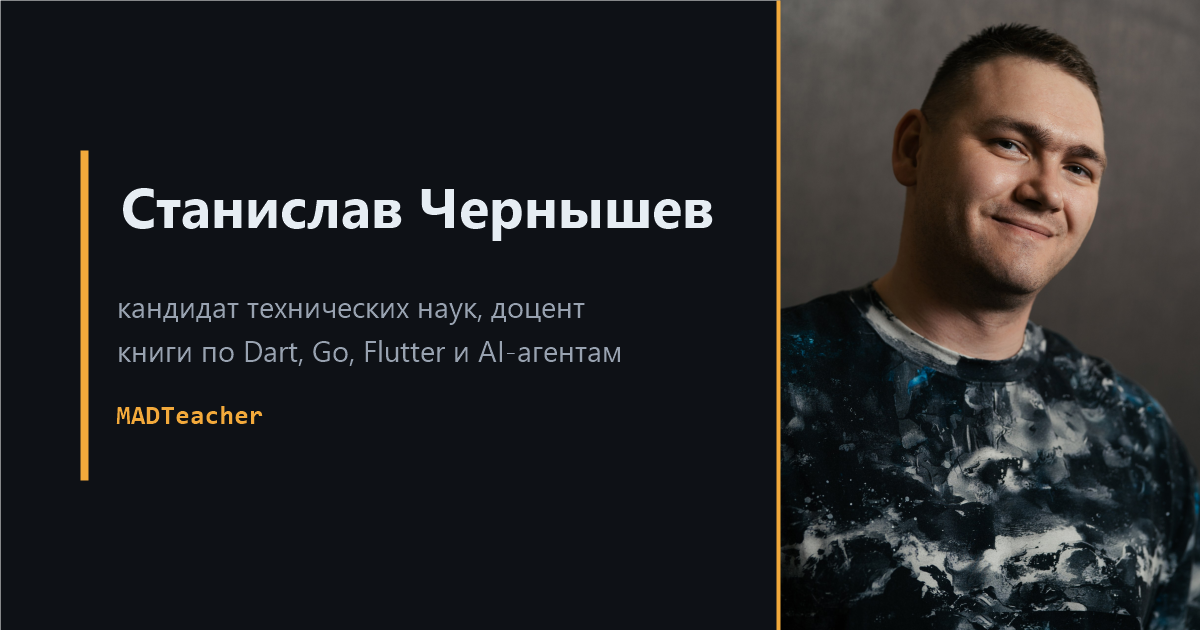
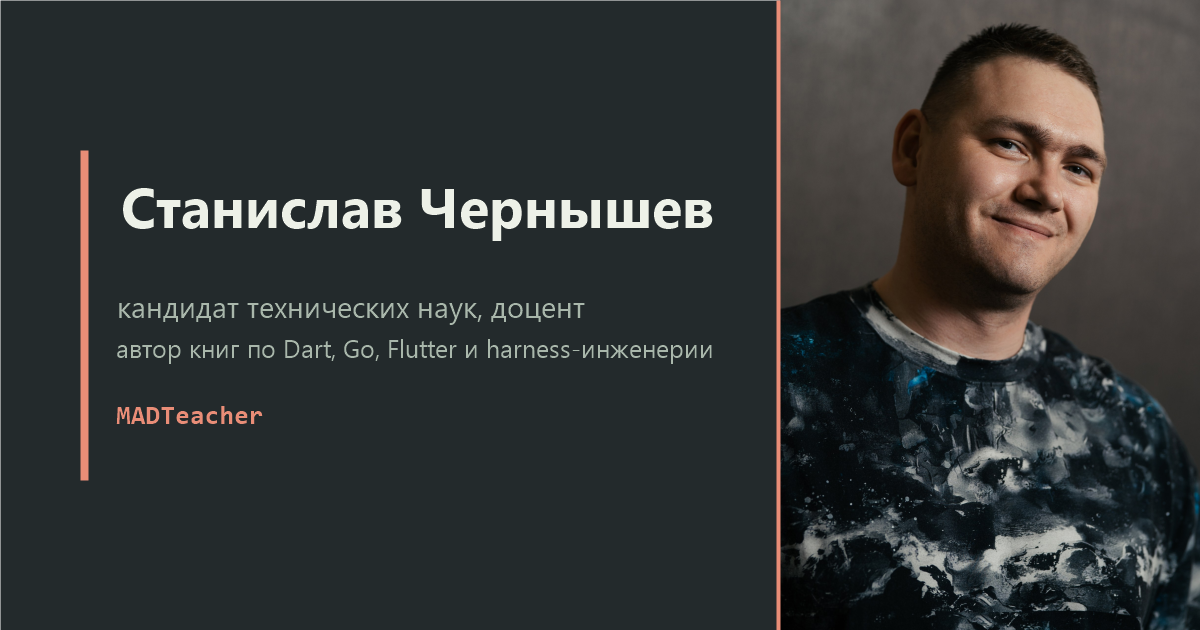
fix

diff --git a/index.html b/index.html
@@ -81,7 +81,7 @@
             <p class="greet hand">Всем привет!</p>
             <p>Меня зовут Станислав Чернышев. Я автор учебной литературы по ИТ-тематике, тг-канала «MADTeacher», спикер конференций, участник ПК Crossconf и FlutterConf. Моя основная деятельность – <span class="hl">наука и преподавание</span>. Есть степень кандидата технических наук. Работаю на должности доцента в Санкт-Петербургском государственном университете аэрокосмического приборостроения.</p>
             <p>За спиной более 10 лет в IT: работа в сфере ВПК, разработка различных проектов на заказ, управление командой разработчиков, <span class="hl">пару выгораний</span> и, само собой, преподавание. Мне нравится обучать, и, чего уж там скрывать – я просто в бешенстве от сложившейся ситуации в сфере образования…</p>
-            <p>Этот проект – один из маленьких шагов, в попытке изменить чашу весов таким образом, чтобы мои ученики и студенты выходили на рынок труда с актуальным набором компетенций. А также один из способов <span class="hl">поддержания преподских штанов</span>. Мной выбран другой путь – пилить востребованный контент, который будет полезен как бывалым, так и начинающим инженерам и используется на моих занятиях в ВУЗе.</p>
+            <p>Этот проект – один из маленьких шагов в попытке склонить чашу весов так, чтобы мои ученики и студенты выходили на рынок труда с актуальным набором компетенций. А также один из способов <span class="hl">поддержания преподских штанов</span>. Мной выбран другой путь – пилить востребованный контент, который будет полезен как бывалым, так и начинающим инженерам и используется на моих занятиях в ВУЗе.</p>
             <p>Почему большая часть книг платная? Годы работы «за спасибо» научили ценить свой труд, к тому же имеется серия книг <span class="hl">«Community edition»</span>, доступ к которым предоставляется совершенно бесплатно.</p>
           </div>
         </div>
